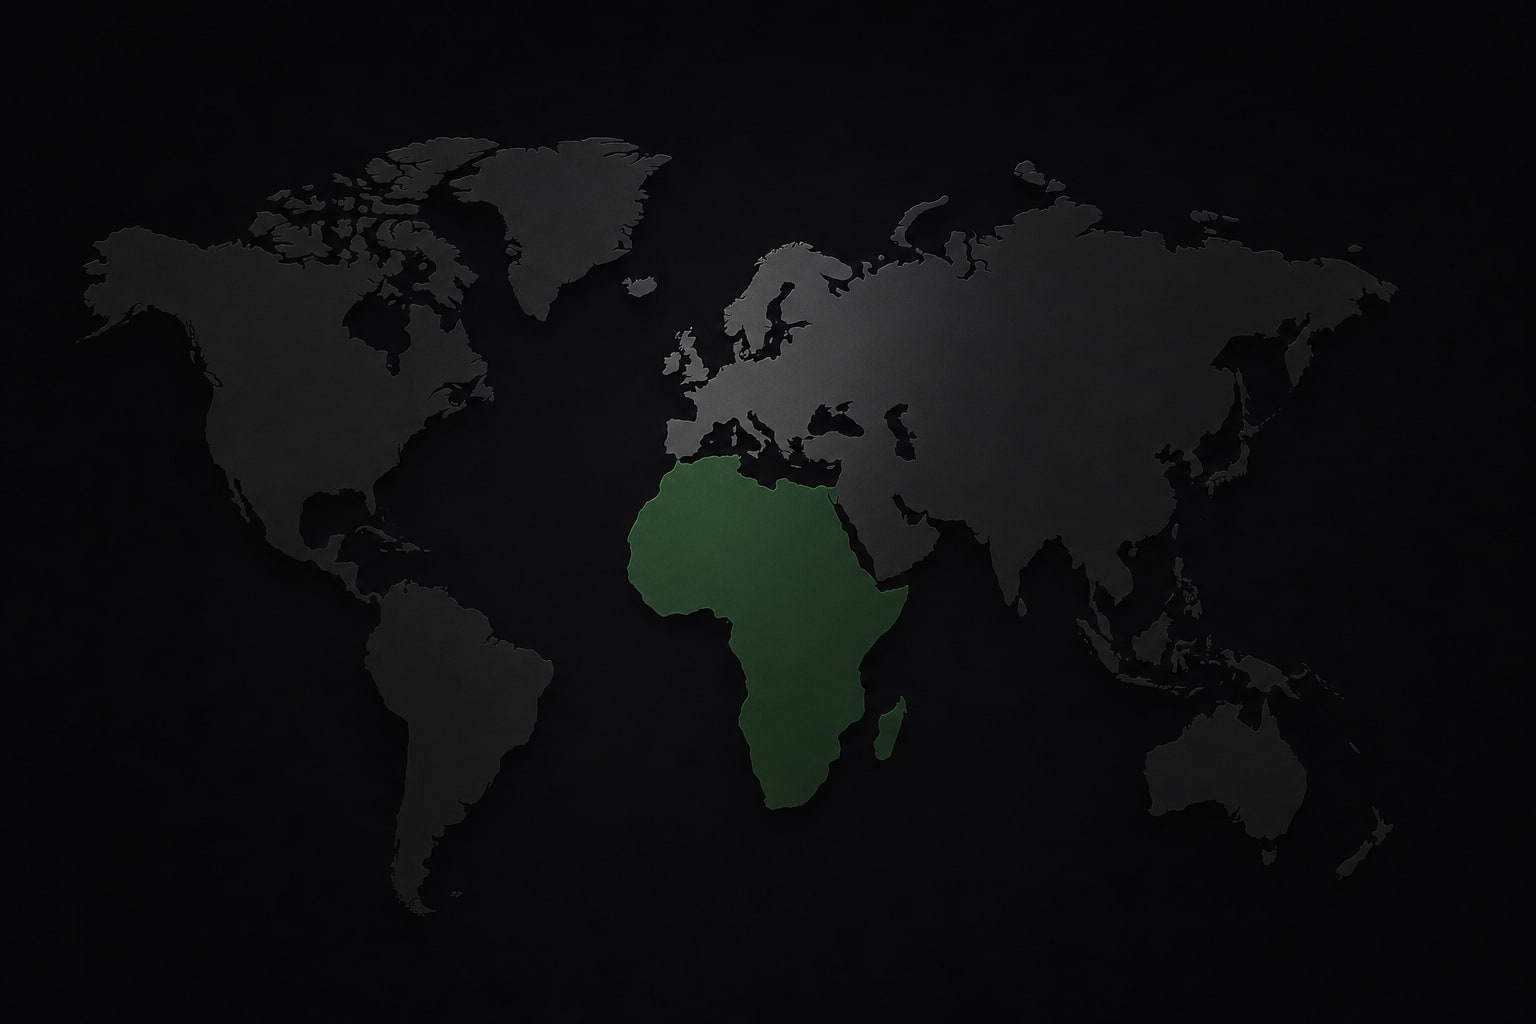
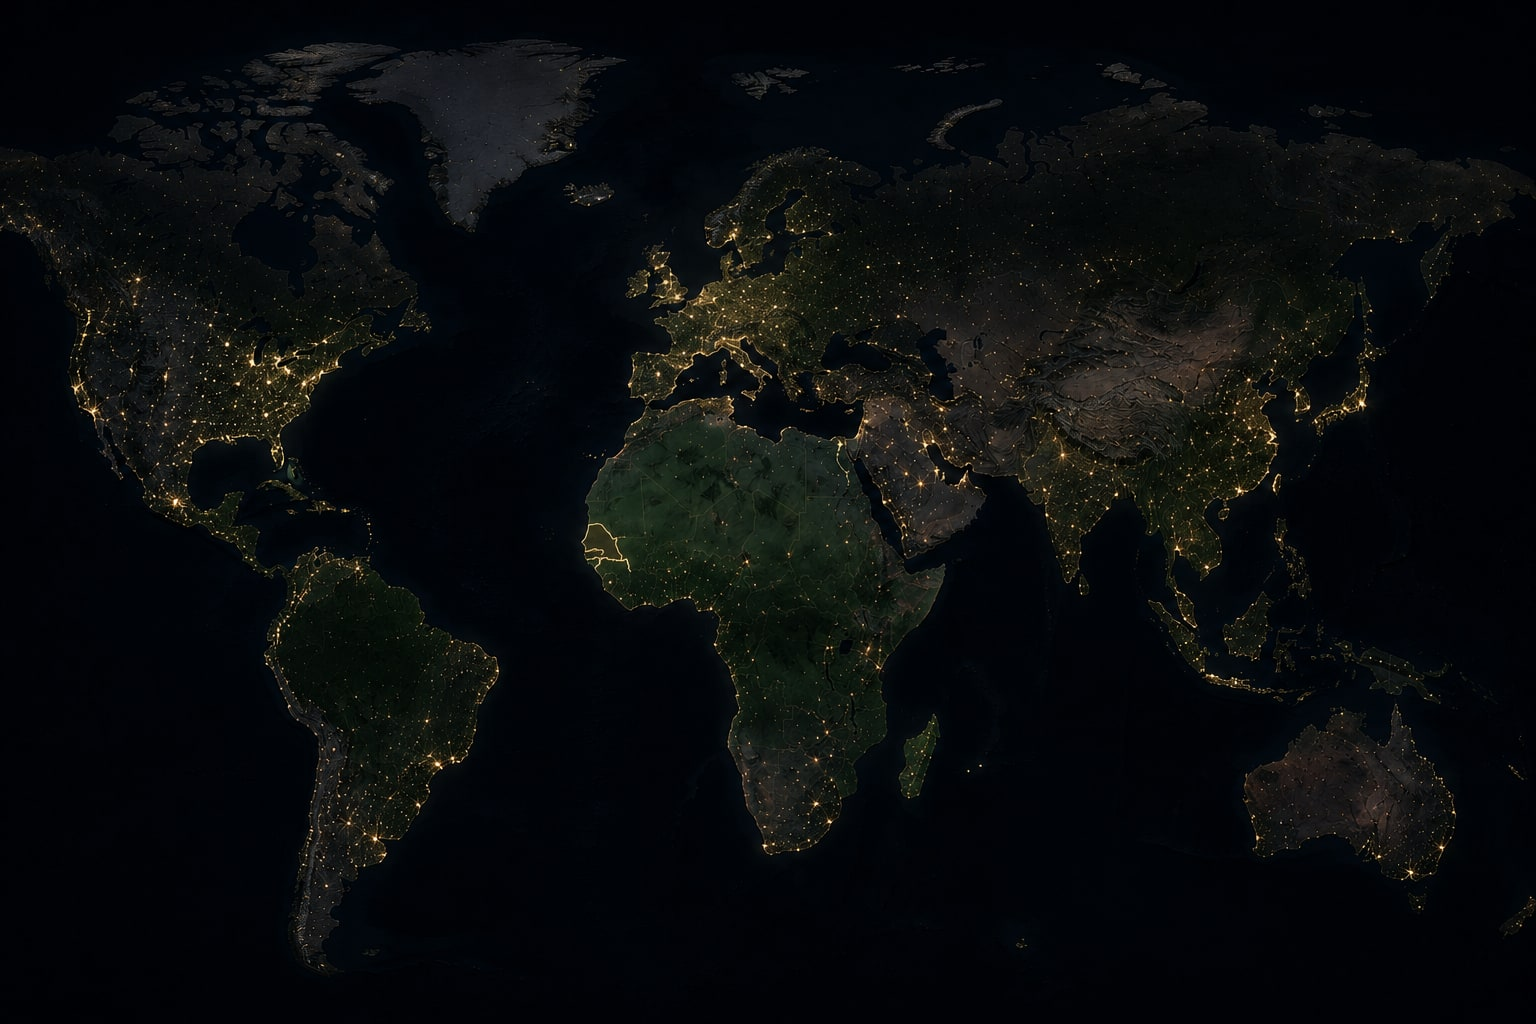
feat: rebuild export map animation to spec — synced fan-out network cycle
Complete rewrite of the section 05 animation per detailed brief:

- New base image: satellite night-lights style world map (Africa in
  green, city lights everywhere else), replacing the flat-color
  illustration. Dakar and the 7 destinations (Marseille, Barcelone,
  Rotterdam, Anvers, Montréal, Toronto, New York) were recalibrated
  by pixel analysis on this new image — amber-outline detection for
  Dakar/Senegal, brightness-peak detection for each city's light
  cluster, cross-checked visually at several zoom levels.

- Animation model changed entirely: previously one route drew at a
  time in an endless 4.2s-per-route loop (~25s full cycle). Now all
  7 routes grow together as a single 4s cycle, tiered by distance
  from Dakar (near/mid/far) so closer destinations (Marseille,
  Barcelone) arrive first and farther ones (the Atlantic crossings)
  arrive last — a natural fan-out rather than a mechanical sequence.
  Points pulse once on arrival, everything holds ~1s, then fades out
  in the reverse of its arrival order (farthest-arrived fades first),
  matching the brief's explicit phase breakdown.

- The whole cycle now runs on pure CSS @keyframes (percentage-timed
  per distance tier) instead of a JS setInterval driving React state
  — lighter, and the browser compositor handles it instead of a
  timer callback. React state is only used for the hover tooltip.
  Route strokes use vector-effect="non-scaling-stroke" to hit the
[…]

diff --git a/src/components/ExportRouteMap.jsx b/src/components/ExportRouteMap.jsx
@@ -1,153 +1,178 @@
-import { useEffect, useState } from "react";
+import { useState } from "react";
 
 // ============================================================
 //  Carte export animée — section "Notre Avenir" (À propos).
-//  Fond = illustration générée (public/images/about/avenir-world-map.jpg,
-//  1536x1024), intégrée DANS le viewBox du SVG (élément <image>) plutôt
-//  qu'en <img> séparé — indispensable pour que le fond et les points
-//  animés recadrent ensemble (object-fit:cover sur un <img> et
-//  preserveAspectRatio="slice" sur un <svg> séparé ne croisent pas
-//  forcément de la même façon selon le ratio du cadre, qui varie
-//  fortement ici : mesuré de 0.58 à 1.71 selon la taille de fenêtre).
-//  Les coordonnées Dakar + 6 villes ont été calibrées par analyse de
-//  pixels sur l'image réelle (détection de composantes connexes +
-//  vérification "tombe bien sur la terre"), pas à l'œil.
-//  Animation des routes indépendante du scroll — horloge réelle
-//  (setInterval + keyframes CSS), cf. note d'architecture dans
-//  APropos.jsx qui ne s'applique qu'au flux scroll principal.
-//  Desktop uniquement (hover requis pour les tooltips) — cf. usage
-//  dans APropos.jsx qui bascule vers une photo statique en mobile.
+//  Fond = image fixe (public/images/about/avenir-world-map.jpg,
+//  1536x1024), intégrée DANS le viewBox du SVG (élément <image>)
+//  pour que fond et overlay recadrent toujours ensemble, quel que
+//  soit le ratio du cadre (mesuré de 0.58 à 1.71 selon la fenêtre).
+//  Dakar + les 7 destinations ont été calibrés par analyse de pixels
+//  sur l'image réelle (détection du contour ambre du Sénégal +
+//  pics de luminosité des villes), pas à l'œil.
+//
+//  Animation 100% CSS (aucun JS par frame) : un seul cycle de 4s en
+//  boucle infinie, chaque route a ses propres @keyframes selon son
+//  "palier de distance" (proche / moyen / lointain) pour que le
+//  réseau se déploie en éventail naturel plutôt que d'un bloc, puis
+//  se referme dans l'ordre inverse. Seul le survol (tooltip) utilise
+//  React state — le cycle lui-même ne dépend d'aucun setInterval.
+//  Desktop uniquement (hover requis) — bascule vers une photo
+//  statique en mobile, gérée dans APropos.jsx.
 // ============================================================
 
-const GOLD = "#C9A84C";
-const OFFWHITE = "#F2E9D8";
+const GOLD_LINE = "#D9A94A";
+const GOLD_POINT = "#F2D896";
 
 const MAP_IMG = "/images/about/avenir-world-map.jpg";
 const MAP_W = 1536;
 const MAP_H = 1024;
 
-const DAKAR = { x: 628, y: 536 };
+// Fenêtre de recadrage (dans les coordonnées de l'image pleine) centrée
+// sur le nuage de points Dakar <-> destinations, pas sur le centre de
+// l'image. Le centre géométrique de l'image (768,512) est loin du centre
+// réel du réseau (~536,385) — Toronto/Montréal/New York sortaient du
+// cadre sur fenêtre étroite avec un simple xMidYMid sur l'image entière.
+const VIEW_X = 150, VIEW_Y = 25, VIEW_W = 770, VIEW_H = 720;
 
-// Ordre = ordre d'apparition dans le cycle (boucle infinie).
+const DAKAR = { x: 585, y: 536 };
+
+// tier = palier de distance : proche / moyen / lointain — pilote la
+// vitesse de tracé et l'ordre d'apparition/disparition (voir CYCLE).
 const ROUTES = [
-  { id: "rotterdam", name: "Rotterdam", country: "Pays-Bas", tag: "Hub fruits frais", x: 724, y: 320, path: "M 628 536 Q 560 380 724 320" },
-  { id: "anvers", name: "Anvers", country: "Belgique", tag: "Terminal conteneurs", x: 732, y: 335, path: "M 628 536 Q 565 390 732 335" },
-  { id: "marseille", name: "Marseille", country: "France", tag: "Marché méditerranéen", x: 715, y: 379, path: "M 628 536 Q 600 430 715 379" },
-  { id: "bilbao", name: "Bilbao", country: "Espagne", tag: "Corridor ibérique", x: 684, y: 380, path: "M 628 536 Q 590 440 684 380" },
-  { id: "londres", name: "Londres", country: "Royaume-Uni", tag: "Marché premium", x: 698, y: 368, path: "M 628 536 Q 580 410 698 368" },
-  { id: "hambourg", name: "Hambourg", country: "Allemagne", tag: "Hub logistique", x: 762, y: 305, path: "M 628 536 Q 545 360 762 305" },
+  { id: "marseille", name: "Marseille", country: "France", tier: "near", x: 724, y: 338, path: "M 585 536 Q 645 400 724 338" },
+  { id: "barcelone", name: "Barcelone", country: "Espagne", tier: "near", x: 683, y: 349, path: "M 585 536 Q 630 410 683 349" },
+  { id: "rotterdam", name: "Rotterdam", country: "Pays-Bas", tier: "mid", x: 733, y: 234, path: "M 585 536 Q 630 330 733 234" },
+  { id: "anvers", name: "Anvers", country: "Belgique", tier: "mid", x: 728, y: 262, path: "M 585 536 Q 628 350 728 262" },
+  { id: "montreal", name: "Montréal", country: "Canada", tier: "far", x: 364, y: 356, path: "M 585 536 Q 480 390 364 356" },
+  { id: "toronto", name: "Toronto", country: "Canada", tier: "far", x: 340, y: 367, path: "M 585 536 Q 470 400 340 367" },
+  { id: "newyork", name: "New York", country: "États-Unis", tier: "far", x: 365, y: 418, path: "M 585 536 Q 490 430 365 418" },
 ];
 
-const LEG_MS = 4200;
+// Un seul cycle de 4s, en boucle infinie. Chaque palier a sa propre
+// fenêtre de tracé/tenue/fondu au sein de ce même cycle — voir le
+// détail des pourcentages dans TIERS ci-dessous.
+const CYCLE_MS = 4000;
+const TIERS = {
+  near: { drawStart: 13.75, drawEnd: 28.75, holdEnd: 72.5, fadeEnd: 85 },
+  mid: { drawStart: 14.5, drawEnd: 33.25, holdEnd: 68.75, fadeEnd: 81.25 },
+  far: { drawStart: 15.25, drawEnd: 39, holdEnd: 65, fadeEnd: 77.5 },
+};
 
 export default function ExportRouteMap() {
-  const [activeIdx, setActiveIdx] = useState(0);
-  const [leg, setLeg] = useState(0);
   const [hovered, setHovered] = useState(null);
-
-  useEffect(() => {
-    const id = setInterval(() => {
-      setActiveIdx((i) => (i + 1) % ROUTES.length);
-      setLeg((l) => l + 1);
-    }, LEG_MS);
-    return () => clearInterval(id);
-  }, []);
-
-  const route = ROUTES[activeIdx];
 
   return (
     <div className="export-map">
       <style>{`
         .export-map { position: absolute; inset: 0; width: 100%; height: 100%; background: #050505; }
-        .export-route { opacity: 0; animation: exportRouteLife ${LEG_MS}ms ease-in-out forwards; }
-        @keyframes exportRouteLife {
-          0%   { opacity: 0; stroke-dashoffset: 100; }
-          3%   { opacity: 1; }
-          43%  { stroke-dashoffset: 0; opacity: 1; }
-          67%  { stroke-dashoffset: 0; opacity: 1; }
-          90%  { opacity: 0; stroke-dashoffset: 0; }
-          100% { opacity: 0; stroke-dashoffset: 0; }
+
+        /* ── Halo Dakar : une seule respiration en tout début de cycle ── */
+        .export-dakar-halo { transform-box: fill-box; transform-origin: center; animation: dakarHalo ${CYCLE_MS}ms ease-out infinite; }
+        @keyframes dakarHalo {
+          0%   { transform: scale(1); opacity: 0.5; }
+          12.5% { transform: scale(2.4); opacity: 0; }
+          100% { transform: scale(1); opacity: 0; }
         }
-        .export-travel-dot {
+
+        ${Object.entries(TIERS).map(([tier, t]) => `
+        .export-route--${tier} {
+          opacity: 0;
+          animation: routeDraw-${tier} ${CYCLE_MS}ms cubic-bezier(0.45,0,0.2,1) infinite;
+        }
+        @keyframes routeDraw-${tier} {
+          0%, ${t.drawStart}%   { opacity: 0; stroke-dashoffset: 100; }
+          ${t.drawStart + 0.3}% { opacity: 1; }
+          ${t.drawEnd}%         { opacity: 1; stroke-dashoffset: 0; }
+          ${t.holdEnd}%         { opacity: 1; stroke-dashoffset: 0; }
+          ${t.fadeEnd}%         { opacity: 0; stroke-dashoffset: 0; }
+          100%                  { opacity: 0; stroke-dashoffset: 0; }
+        }
+        .export-dot--${tier} {
           offset-distance: 0%;
           opacity: 0;
-          animation: exportDotTravel ${LEG_MS}ms ease-in-out forwards;
-          filter: drop-shadow(0 0 4px rgba(242,233,216,0.85));
+          animation: dotTravel-${tier} ${CYCLE_MS}ms cubic-bezier(0.45,0,0.2,1) infinite;
+          filter: drop-shadow(0 0 4px rgba(242,216,150,0.85));
         }
-        @keyframes exportDotTravel {
-          0%   { offset-distance: 0%; opacity: 0; }
-          3%   { opacity: 1; }
-          43%  { offset-distance: 100%; opacity: 1; }
-          50%  { opacity: 0; }
-          100% { offset-distance: 100%; opacity: 0; }
+        @keyframes dotTravel-${tier} {
+          0%, ${t.drawStart}%     { offset-distance: 0%; opacity: 0; }
+          ${t.drawStart + 0.3}%   { opacity: 1; }
+          ${t.drawEnd}%           { offset-distance: 100%; opacity: 1; }
+          ${t.drawEnd + 3.5}%     { opacity: 0; }
+          100%                    { opacity: 0; }
         }
-        .export-radar { transform-box: fill-box; transform-origin: center; animation: exportRadar 4s ease-out infinite; }
-        .export-radar--delay { animation-delay: 2s; }
-        @keyframes exportRadar {
-          0%   { transform: scale(1); opacity: 0.45; }
-          100% { transform: scale(3.4); opacity: 0; }
+        .export-arrive--${tier} {
+          transform-box: fill-box;
+          transform-origin: center;
+          animation: arrivePulse-${tier} ${CYCLE_MS}ms ease-out infinite;
         }
-        .export-arrive { transform-box: fill-box; transform-origin: center; animation: exportArrive ${LEG_MS}ms ease-out both; }
-        @keyframes exportArrive {
-          0%, 40% { transform: scale(1); }
-          58%     { transform: scale(2.1); opacity: 0.4; }
-          75%, 100% { transform: scale(1); opacity: 1; }
+        @keyframes arrivePulse-${tier} {
+          0%, ${t.drawEnd - 0.25}% { transform: scale(1); opacity: 0; }
+          ${t.drawEnd}%            { transform: scale(1); opacity: 1; }
+          ${t.drawEnd + 4}%        { transform: scale(1.8); opacity: 0.4; }
+          ${t.drawEnd + 8}%        { transform: scale(1); opacity: 1; }
+          ${t.holdEnd}%            { transform: scale(1); opacity: 1; }
+          ${t.fadeEnd}%            { opacity: 0; }
+          100%                     { opacity: 0; }
         }
+        `).join("\n")}
+
         .export-tooltip {
           background: #0B0F0A;
-          border: 1px solid rgba(201,168,76,0.35);
+          border: 1px solid rgba(217,169,74,0.35);
           border-radius: 3px;
           padding: 8px 10px;
           display: flex;
           flex-direction: column;
           gap: 2px;
           font-family: 'Plus Jakarta Sans', sans-serif;
-          color: ${OFFWHITE};
+          color: ${GOLD_POINT};
           white-space: nowrap;
           box-shadow: 0 8px 24px rgba(0,0,0,0.4);
         }
-        .export-tooltip strong { font-size: 44px; font-weight: 700; letter-spacing: 0.02em; }
-        .export-tooltip span { font-size: 36px; opacity: 0.6; }
-        .export-tooltip-tag { text-transform: uppercase; letter-spacing: 0.08em; font-size: 32px !important; color: ${GOLD}; opacity: 0.85 !important; }
+        .export-tooltip strong { font-size: 44px; font-weight: 700; letter-spacing: 0.02em; color: #F2E9D8; }
+        .export-tooltip span { font-size: 34px; opacity: 0.65; }
       `}</style>
-      <svg viewBox={`0 0 ${MAP_W} ${MAP_H}`} preserveAspectRatio="xMidYMid slice" width="100%" height="100%" style={{ display: "block" }}>
+      <svg viewBox={`${VIEW_X} ${VIEW_Y} ${VIEW_W} ${VIEW_H}`} preserveAspectRatio="xMidYMid slice" width="100%" height="100%" style={{ display: "block" }}>
         <image href={MAP_IMG} x="0" y="0" width={MAP_W} height={MAP_H} preserveAspectRatio="xMidYMid slice" />
 
-        <path
-          key={`route-${leg}`}
-          className="export-route"
-          d={route.path}
-          fill="none"
-          stroke={GOLD}
-          strokeWidth="5"
-          strokeLinecap="round"
-          pathLength="100"
-          strokeDasharray="100"
-        />
-        <circle key={`dot-${leg}`} className="export-travel-dot" r="11" fill={OFFWHITE} style={{ offsetPath: `path('${route.path}')` }} />
+        {ROUTES.map((r) => (
+          <path
+            key={r.id}
+            className={`export-route--${r.tier}`}
+            d={r.path}
+            fill="none"
+            stroke={GOLD_LINE}
+            strokeWidth="1.3"
+            strokeLinecap="round"
+            vectorEffect="non-scaling-stroke"
+            pathLength="100"
+            strokeDasharray="100"
+          />
+        ))}
+        {ROUTES.map((r) => (
+          <circle
+            key={`dot-${r.id}`}
+            className={`export-dot--${r.tier}`}
+            r="10"
+            fill={GOLD_POINT}
+            style={{ offsetPath: `path('${r.path}')` }}
+          />
+        ))}
 
-        {/* Dakar — radar en boucle continue, indépendant du cycle de routes */}
-        <circle cx={DAKAR.x} cy={DAKAR.y} r="34" fill={GOLD} opacity="0.18" className="export-radar" />
-        <circle cx={DAKAR.x} cy={DAKAR.y} r="34" fill={GOLD} opacity="0.18" className="export-radar export-radar--delay" />
-        <circle cx={DAKAR.x} cy={DAKAR.y} r="13" fill={OFFWHITE} />
+        {/* Dakar — point d'origine fixe, contour léger + halo qui respire une fois par cycle */}
+        <circle cx={DAKAR.x} cy={DAKAR.y} r="20" fill="none" stroke={GOLD_LINE} strokeWidth="1" opacity="0.35" vectorEffect="non-scaling-stroke" />
+        <circle cx={DAKAR.x} cy={DAKAR.y} r="20" fill={GOLD_LINE} opacity="0.16" className="export-dakar-halo" />
+        <circle cx={DAKAR.x} cy={DAKAR.y} r="12" fill={GOLD_POINT} />
 
         {ROUTES.map((r) => (
-          <g key={r.id} onMouseEnter={() => setHovered(r.id)} onMouseLeave={() => setHovered((h) => (h === r.id ? null : h))}>
-            <circle cx={r.x} cy={r.y} r="38" fill="transparent" />
-            <circle
-              cx={r.x}
-              cy={r.y}
-              r="10"
-              fill={OFFWHITE}
-              className={r.id === route.id ? "export-arrive" : undefined}
-              key={r.id === route.id ? `arrive-${leg}` : `static-${r.id}`}
-            />
+          <g key={`g-${r.id}`} onMouseEnter={() => setHovered(r.id)} onMouseLeave={() => setHovered((h) => (h === r.id ? null : h))}>
+            <circle cx={r.x} cy={r.y} r="36" fill="transparent" />
+            <circle cx={r.x} cy={r.y} r="9" fill={GOLD_POINT} className={`export-arrive--${r.tier}`} />
             {hovered === r.id && (
-              <foreignObject x={r.x - 250} y={r.y - 240} width="500" height="210" style={{ overflow: "visible", pointerEvents: "none" }}>
+              <foreignObject x={r.x - 250} y={r.y - 220} width="500" height="190" style={{ overflow: "visible", pointerEvents: "none" }}>
                 <div className="export-tooltip">
                   <strong>{r.name}</strong>
                   <span>{r.country}</span>
-                  <span className="export-tooltip-tag">{r.tag}</span>
                 </div>
               </foreignObject>
             )}
